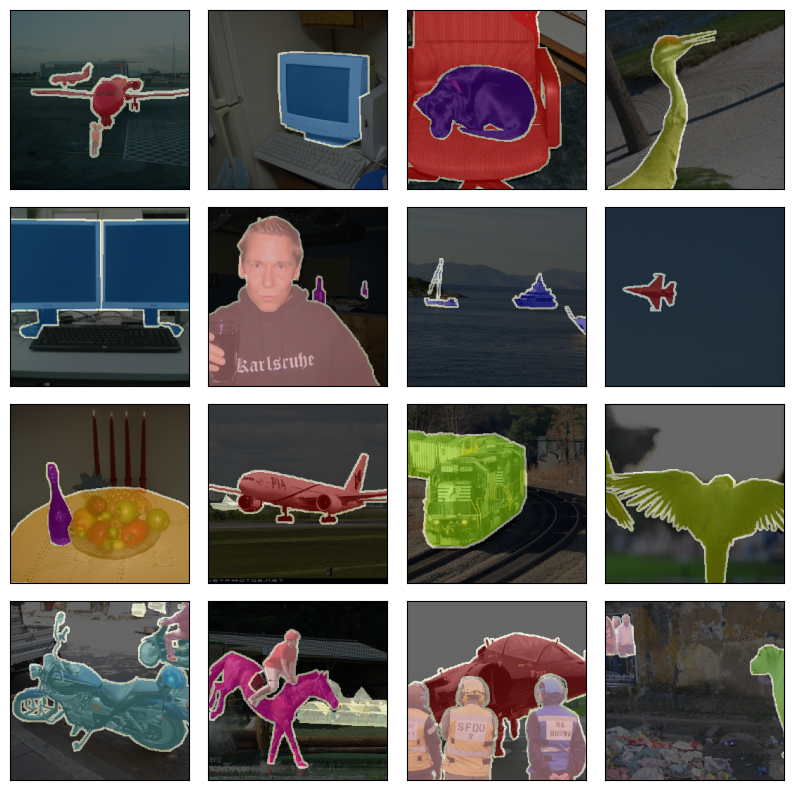
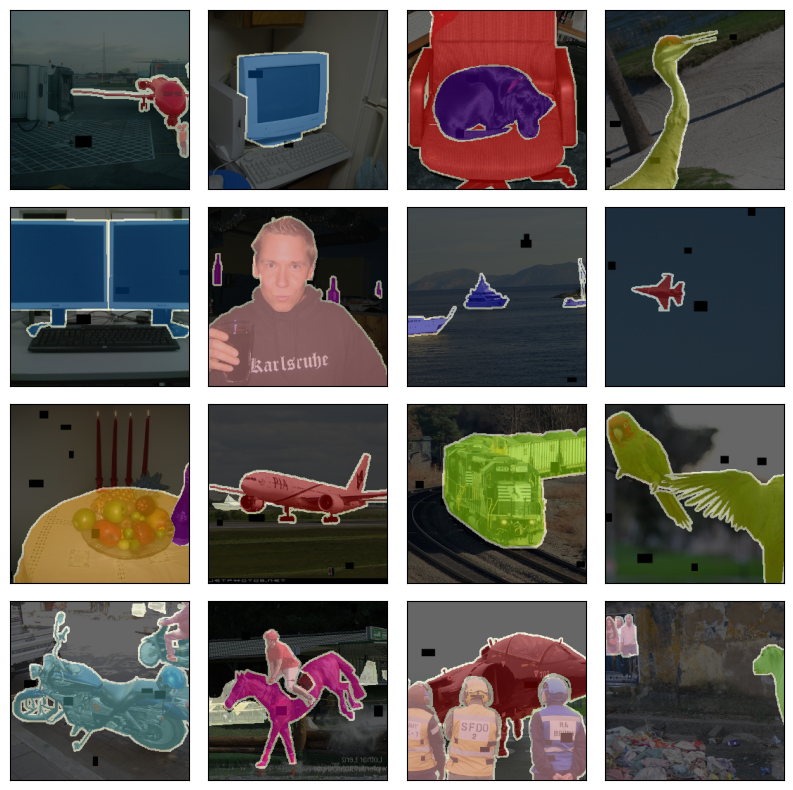
Ajout d'augmentations

diff --git a/data.py b/data.py
@@ -228,7 +228,12 @@ def plot_samples(dataset_dir):
     crop_size = 256
 
     # On ajoutera des augmentations ici
-    augmentation_transforms = []
+    augmentation_transforms = [
+        A.HorizontalFlip(p=0.6),
+        A.RandomBrightnessContrast(p=0.2),
+        A.CoarseDropout(num_holes_range=(3, 6),hole_height_range=(10, 20),hole_width_range=(10, 30),fill_value=0, p=0.8),
+        
+    ]
     resize_transforms = [
         A.SmallestMaxSize(max_size=crop_size),
         A.RandomCrop(height=crop_size, width=crop_size),
